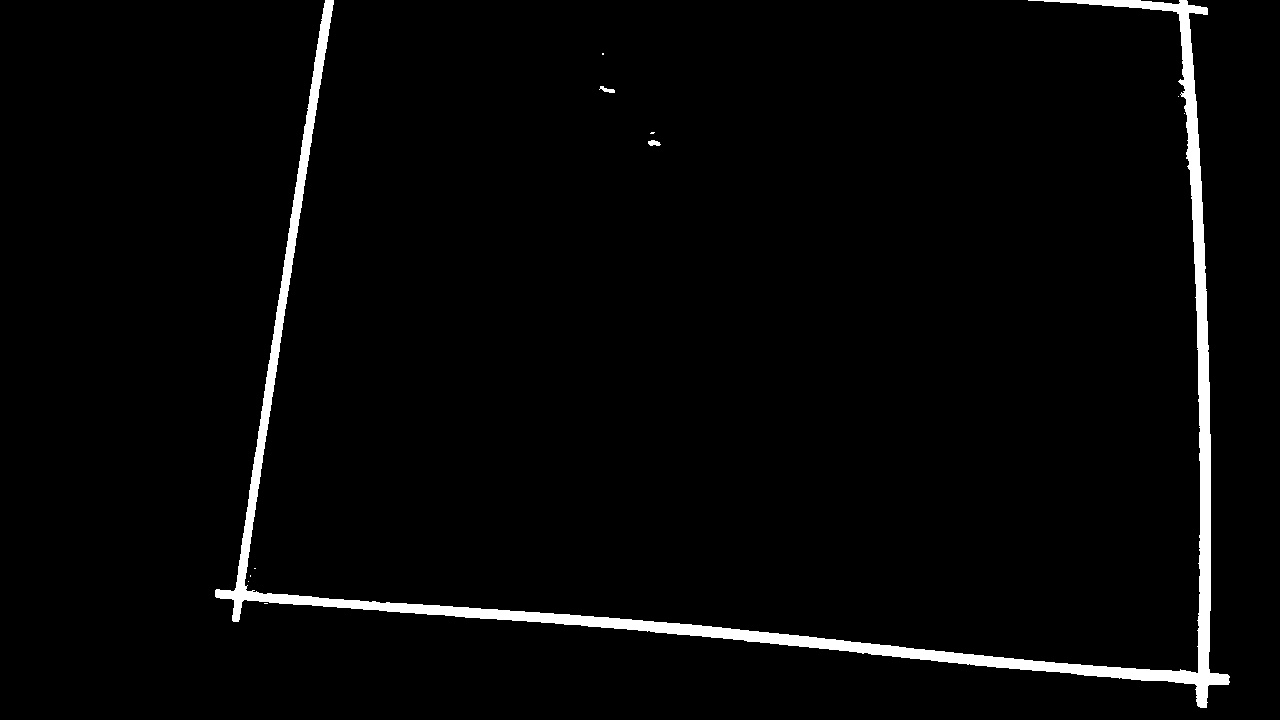
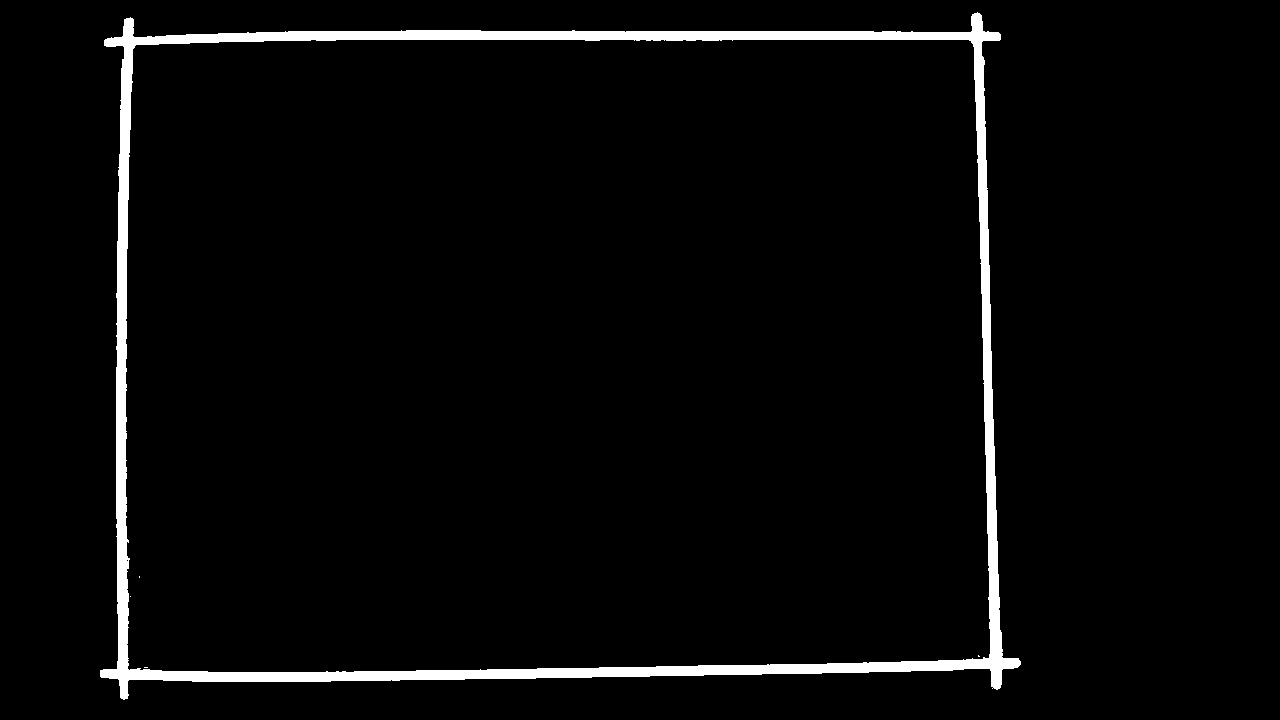
Created edge detection with houghlines

Changed region(s): [[0.0625, 0.0, 0.9688, 0.9778]]

diff --git a/src/main/java/org/example/camera/EdgeDetection.java b/src/main/java/org/example/camera/EdgeDetection.java
@@ -8,10 +8,14 @@ import org.opencv.highgui.HighGui;
 import org.opencv.imgcodecs.Imgcodecs;
 import org.opencv.imgproc.Imgproc;
 
+import javax.swing.*;
 import java.awt.*;
+import java.awt.geom.Line2D;
 import java.util.ArrayList;
 import java.util.List;
 
+import static org.example.utility.Geometry.distanceBetweenPoints;
+import static org.example.utility.Geometry.intersection;
 import static org.opencv.imgproc.Imgproc.*;
 
 public class EdgeDetection {
@@ -33,9 +37,11 @@ public class EdgeDetection {
 
     public Rect detect(Mat image, Legofir dude) {
         Rect edgeRect;
-        Imgproc.cvtColor(image, hlsimage, Imgproc.COLOR_BGR2HLS);
+        //Imgproc.cvtColor(image, hlsimage, Imgproc.COLOR_BGR2HLS);
+        hlsimage = image;
         Core.inRange(hlsimage, new Scalar(hMin, sMin, lMin), new Scalar(hMax, sMax, lMax), redMask);
 
+        Imgcodecs.imwrite("previous.jpg", redMask);
 
         // init
         List<MatOfPoint> redContour = new ArrayList<>();
@@ -66,49 +72,129 @@ public class EdgeDetection {
 
 
 
-    public Point[] intersectionDetect(Mat image) {
+    public Point[] intersectionDetect(Mat image, Legofir dude) {
         //Imgproc.cvtColor(image, hlsimage, Imgproc.COLOR_BGR2HLS);
-        //Imgcodecs.imwrite("beforebefore.jpg", hlsimage);
         Core.inRange(image, new Scalar(0, 0, 150), new Scalar(160, 105, 255), redMask);
-
-        Imgcodecs.imwrite("before.jpg", redMask);
-
-
-        // Canny Edge Detection
-        //Mat edges = new Mat();
-        //Imgproc.Canny(redMask, edges, 50, 100, 7, false);
-        //Imgcodecs.imwrite("canny.jpg", edges);
 
         // Apply Hough Line Transform
         Mat lines = new Mat();
-        Imgproc.HoughLinesP(redMask, lines, 1, Math.PI / 180, 250, 10, 5);
-
-        // Draw the lines
-        Mat houghLines = new Mat();
-        houghLines.create(redMask.rows(), redMask.cols(), CvType.CV_8UC1);
-
-        Imgcodecs.imwrite("weirdone.jpg", houghLines);
+        Imgproc.HoughLines(redMask, lines, 1, Math.PI / 180, 10 , 0, 0);
 
         // This will ensure only the top 4 lines are processed
-        int limit = 20;
-        for (int i = 0; i < lines.rows() && i < limit; i++) {
-            double[] points = lines.get(i, 0);
-            double x1, y1, x2, y2;
-            x1 = points[0];
-            y1 = points[1];
-            x2 = points[2];
-            y2 = points[3];
+        List<Double> rhoList = new ArrayList<Double>();
 
-            Point pt1 = new Point(x1, y1);
-            Point pt2 = new Point(x2, y2);
+        double difference = 50;
+        List<Line2D> edges = new ArrayList<Line2D>();
+        List<Point> intersection = new ArrayList<Point>();
 
-            // Draw line on the image
-            Imgproc.line(image, pt1, pt2, new Scalar(255, 0, 0), 5);
+
+        for (int i = 0; i < lines.rows() && i < 10; i++) {
+            if(edges.size()==4){
+                break;
+            }
+
+            double[] data = lines.get(i, 0);
+            double rho = data[0];
+            double theta = data[1];
+
+            if(rhoList.isEmpty()) {
+                addLine(rho, theta, rhoList,edges, image);
+            } else {
+                boolean isFalse = false;
+                for(int j = 0; j < rhoList.size(); j++) {
+                    if((rho < rhoList.get(j)+difference && rho > rhoList.get(j)-difference)){
+                        isFalse = true;
+                        break;
+                    }
+                }
+                if(!isFalse){
+                    addLine(rho, theta, rhoList,edges, image);
+                }
+            }
         }
 
-        // Save the output
-        Imgcodecs.imwrite("houghlines.jpg", houghLines);
 
+        Point[] returnValues = new Point[4];
+        for (int i = 0; i < edges.size(); i++) {
+            for (int j = 0; j < edges.size(); j++) {
+                if(edges.get(i).intersectsLine(edges.get(j)) && edges.get(i) != edges.get(j)){
+                    intersection.add(intersection(edges.get(i), edges.get(j)));
+
+
+
+                    if((int)intersection.get(intersection.size()-1).x < image.width()/2){
+                        if((int)intersection.get(intersection.size()-1).y < -image.height()/2){
+                            //bottom left
+                            returnValues[0] = intersection.get(intersection.size()-1);
+
+                        } else if((int)intersection.get(intersection.size()-1).y > -image.height()/2){
+                            //top left
+                            returnValues[1] = intersection.get(intersection.size()-1);
+                        }
+
+                    } else if((int)intersection.get(intersection.size()-1).x > image.width()/2){
+                        if((int)intersection.get(intersection.size()-1).y < -image.height()/2){
+                            //bottom right
+                            returnValues[2] = intersection.get(intersection.size()-1);
+
+                        } else if((int)intersection.get(intersection.size()-1).y > -image.height()/2){
+                            //top right
+                            returnValues[3] = intersection.get(intersection.size()-1);
+                        }
+                    }
+
+
+
+                }
+            }
+         }
+
+
+        boolean allValuesPresent = true;
+        for (Point value : returnValues) {
+            if (value == null) {
+                allValuesPresent = false;
+                break;
+            }
+        }
+
+
+        if(allValuesPresent){
+            for (int i = 0; i < returnValues.length; i++) {
+                Point tempPoint = new Point(returnValues[i].x, -returnValues[i].y);
+
+                //Show numbers on corners
+                Imgproc.putText(image, Integer.toString(i), tempPoint, FONT_HERSHEY_SIMPLEX, 2,new Scalar(0,0,255),2);
+
+                Imgproc.circle(
+                        image,                 //Matrix obj of the image
+                        tempPoint,   //Center of the circle
+                        30,                    //Radius
+                        new Scalar(225, 255, 255),  //Scalar object for color
+                        5                     //Thickness of the circle
+                );
+            }
+
+            dude.getMap().setEdge(returnValues[1], returnValues[3], returnValues[0], returnValues[2], (int)distanceBetweenPoints(returnValues[1], returnValues[0]), (int)distanceBetweenPoints(returnValues[1], returnValues[3]));
+            return returnValues;
+        }
         return null;
+    }
+
+    private void addLine(double rho, double theta, List<Double> rhoList, List<Line2D> edges, Mat image){
+        double a = Math.cos(theta);
+        double b = Math.sin(theta);
+        double x0 = a*rho;
+        double y0 = b*rho;
+        //Drawing lines on the image
+        Point pt1 = new Point();
+        Point pt2 = new Point();
+        pt1.x = Math.round(x0 + 1000*(-b));
+        pt1.y = Math.round(y0 + 1000*(a));
+        pt2.x = Math.round(x0 - 10000*(-b));
+        pt2.y = Math.round(y0 - 10000 *(a));
+        rhoList.add(rho);
+
+        edges.add(new Line2D.Double(pt1.x, -(pt1.y), pt2.x, -(pt2.y)));
     }
 }

diff --git a/src/main/java/org/example/camera/CameraAnalyze.java b/src/main/java/org/example/camera/CameraAnalyze.java
@@ -249,7 +249,6 @@ public class CameraAnalyze {
             Mat image = new Mat();
             byte[] imageData;
 
-
             ImageIcon icon;
 
             while (true) {
@@ -260,9 +259,10 @@ public class CameraAnalyze {
                 robotState.setText("Current Robot State: " + currentState.name());
 
 
-                capture.read(webCamImage);
-                resize(webCamImage, image, new Size(1280, 720));
+                //capture.read(webCamImage);
+                //resize(webCamImage, image, new Size(1280, 720));
                 //image = webCamImage;
+                image = Imgcodecs.imread("beforebefore.jpg");
 
 
                 java.util.List<Rect> blue = new ArrayList<>();
@@ -274,27 +274,19 @@ public class CameraAnalyze {
                 Point[] edgeIntersections = null;
 
                 if (edgeDetectionOn){
-                    edge = edgeDetection.detect(image,dude);
+                    //edge = edgeDetection.detect(image,dude);
 
 
-                    edgeIntersections = edgeDetection.intersectionDetect(image);
-
+                    edgeIntersections = edgeDetection.intersectionDetect(image, dude);
 
 
                     /*
-                    if(edge!=null) {
-                        Point[] edgePoints = new Point[4];
-
-                        edgePoints[0] = new Point(edge.x, edge.y);
-                        edgePoints[1] = new Point(edge.width, edge.y);
-                        edgePoints[2] = new Point(edge.x, edge.height);
-                        edgePoints[3] = new Point(edge.width, edge.height);
-
+                    if(edgeIntersections!=null) {
                         MatOfPoint2f src = new MatOfPoint2f(
-                                edgePoints[0],
-                                edgePoints[1],
-                                edgePoints[2],
-                                edgePoints[3]);
+                                edgeIntersections[1],
+                                edgeIntersections[3],
+                                edgeIntersections[0],
+                                edgeIntersections[2]);
 
                         MatOfPoint2f dst = new MatOfPoint2f(
                                 new Point(0, 0),
@@ -306,8 +298,8 @@ public class CameraAnalyze {
 
                         Mat warpMat = Imgproc.getPerspectiveTransform(src, dst);
                         Imgproc.warpPerspective(image, image, warpMat, image.size());
-                    }*/
-
+                    }
+                    */
 
                 }
 
